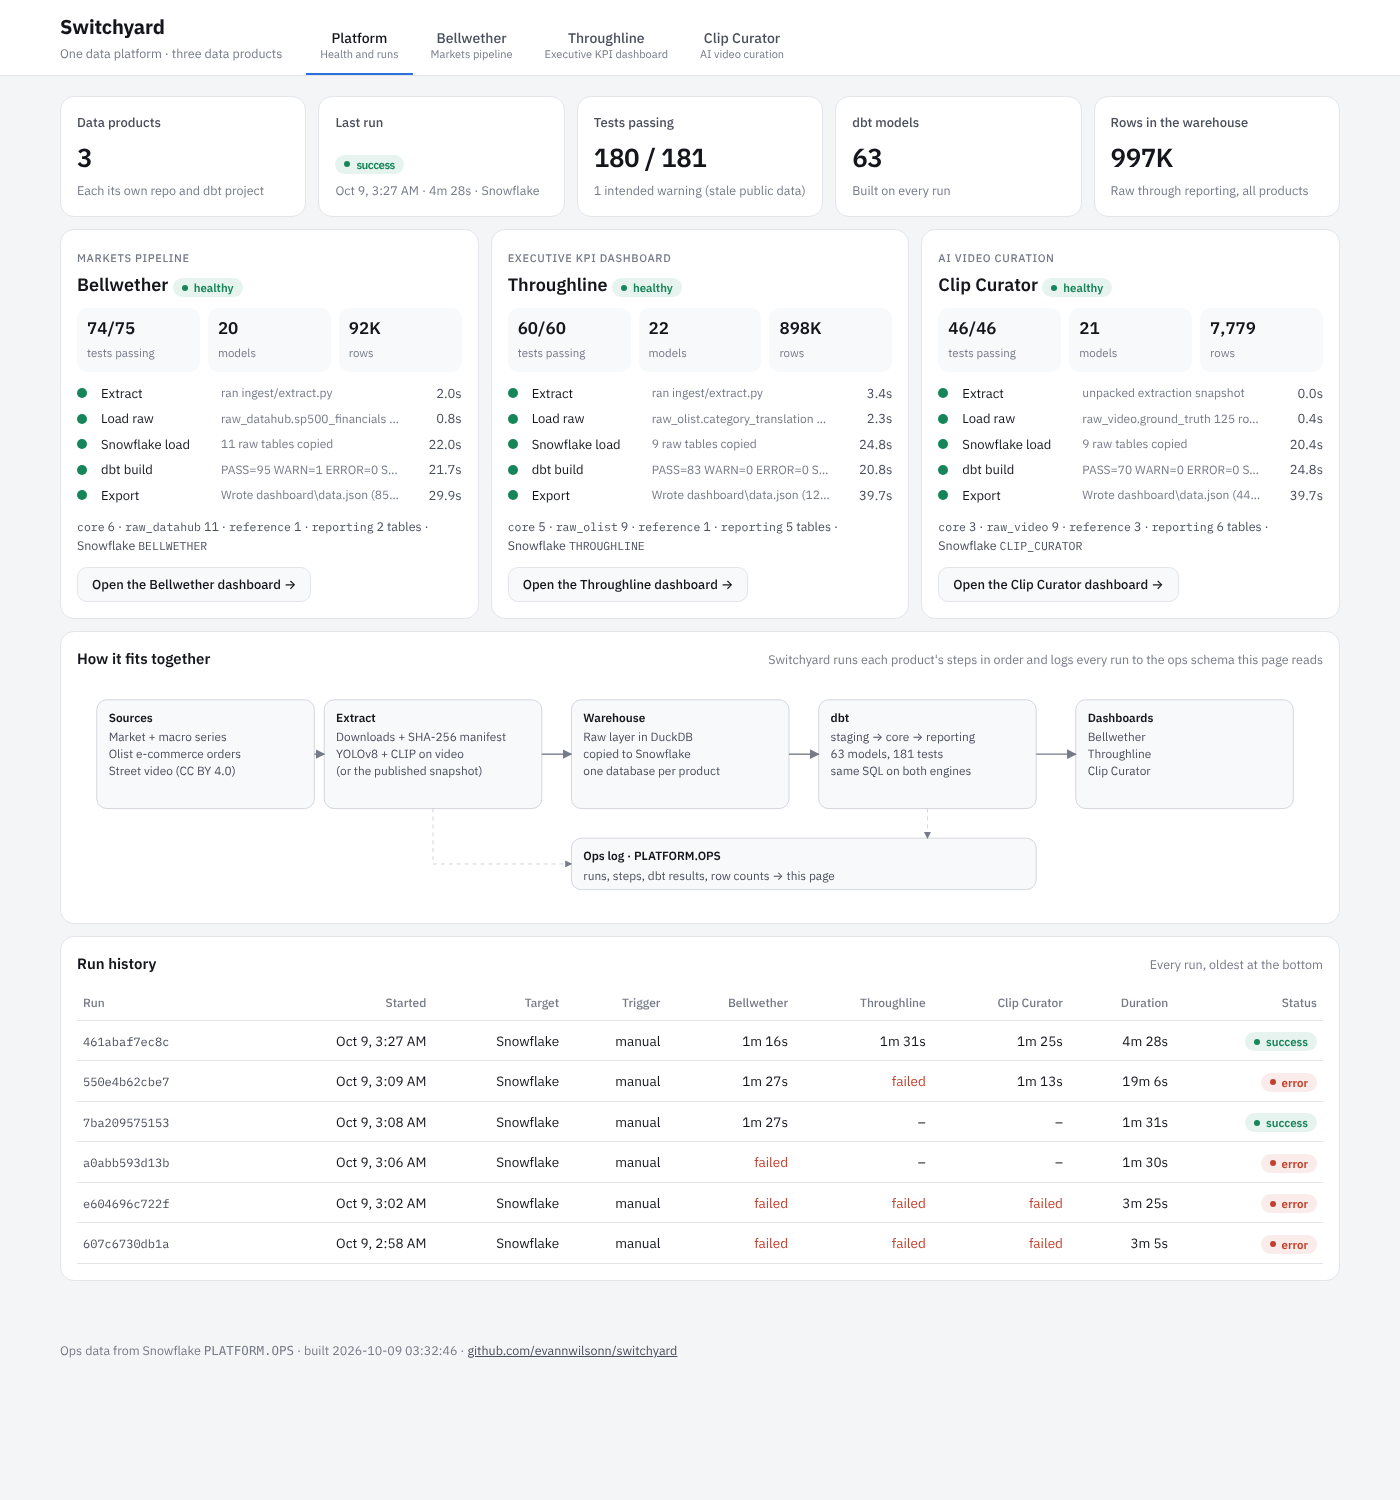
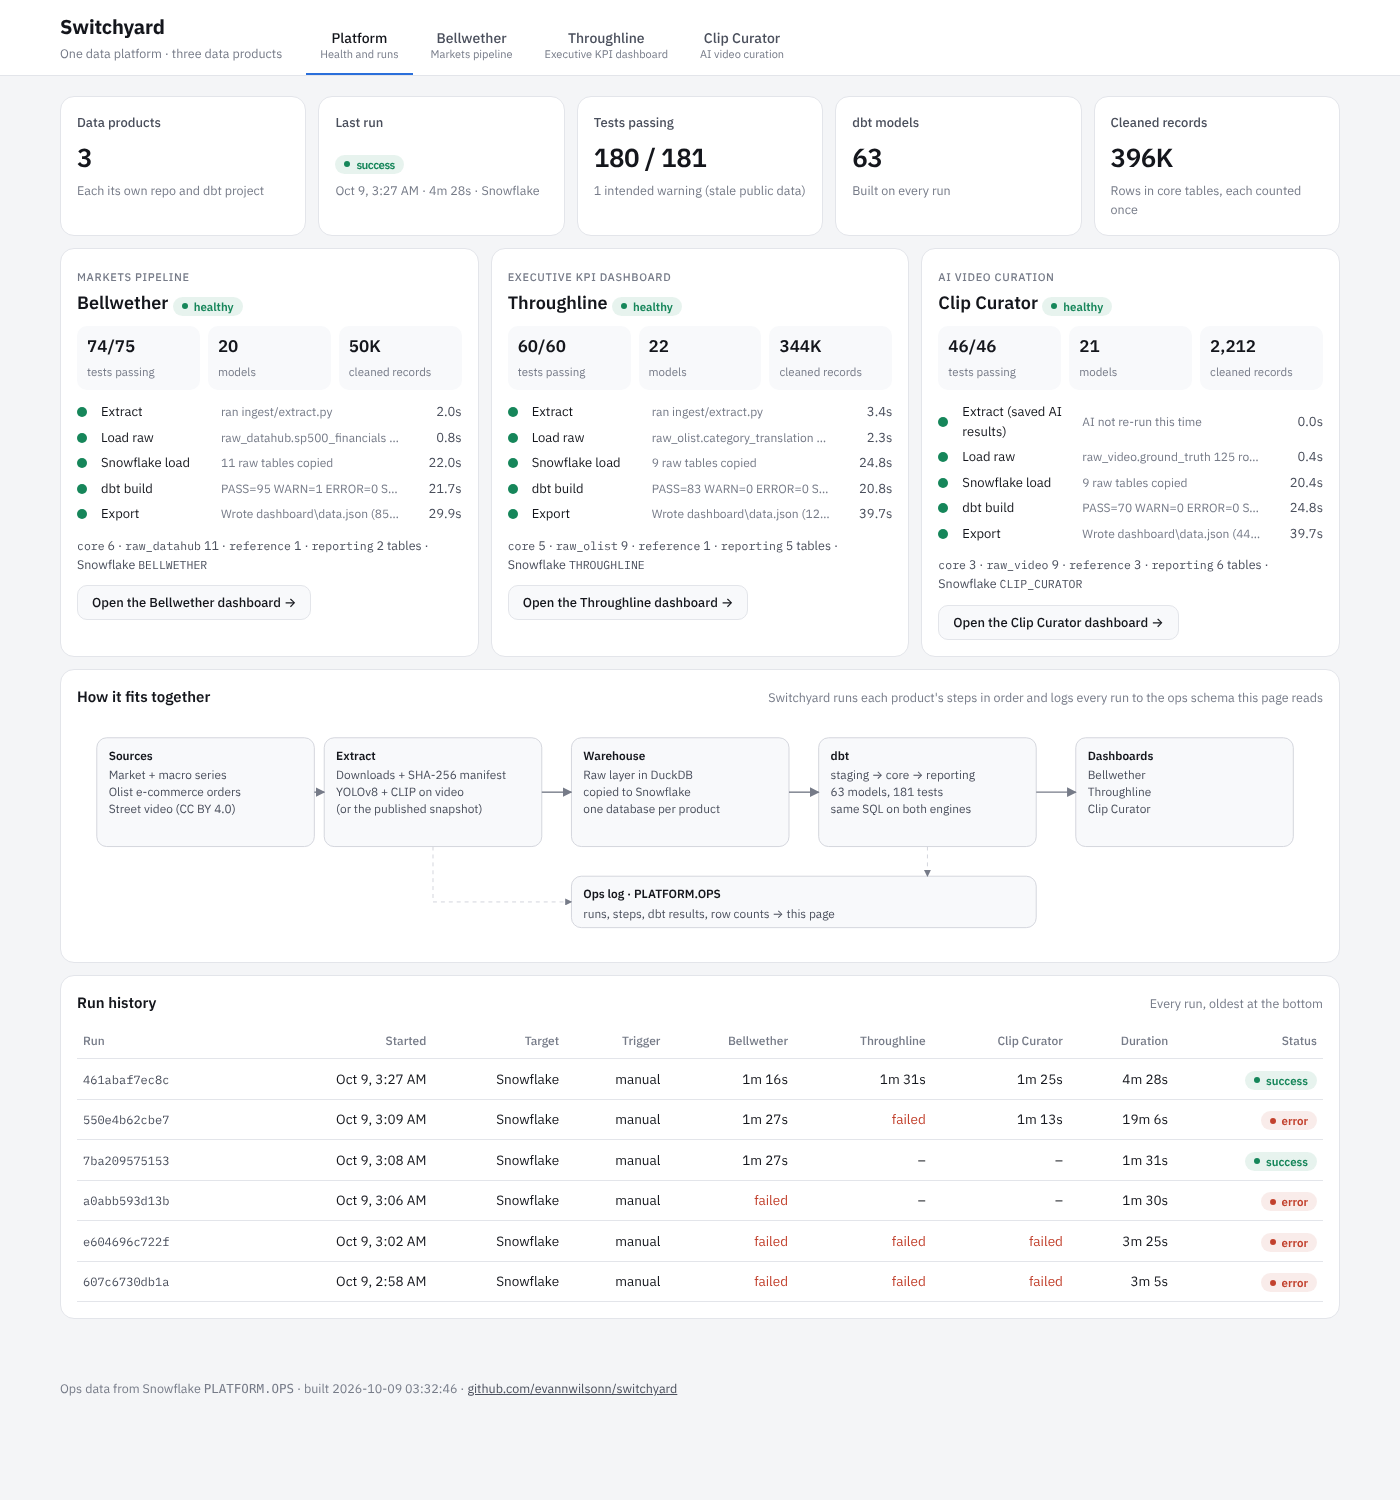
Platform view: count cleaned records once, label saved AI results
Claude-Session: https://claude.ai/code/session_0115tsXVS3SzXwHY6ufHKykD

diff --git a/app/index.html b/app/index.html
@@ -136,7 +136,9 @@ $('tabs').addEventListener('click',e=>{const b=e.target.closest('button');if(b)s
 const tests=prods.flatMap(p=>O.latest[p.name].dbt.filter(d=>d.resource_type==='test'));
 const testPass=tests.filter(d=>d.status==='pass').reduce((a,d)=>a+d.n,0), testAll=tests.reduce((a,d)=>a+d.n,0), testWarn=tests.filter(d=>d.status==='warn').reduce((a,d)=>a+d.n,0);
 const models=prods.flatMap(p=>O.latest[p.name].dbt.filter(d=>d.resource_type==='model')).reduce((a,d)=>a+d.n,0);
-const rowsAll=prods.flatMap(p=>O.latest[p.name].tables).reduce((a,t)=>a+(t.row_count||0),0);
+/* core = cleaned records, each counted once; raw and reporting tables hold copies or rollups of the same rows */
+const coreRows=L=>L.tables.filter(t=>t.schema_name==='core').reduce((a,t)=>a+(t.row_count||0),0);
+const rowsAll=prods.reduce((a,p)=>a+coreRows(O.latest[p.name]),0);
 const last=O.runs[0];
 const runSecs=last?(new Date(last.finished_at.replace(' ','T'))-new Date(last.started_at.replace(' ','T')))/1000:0;
 $('kpis').innerHTML=[
@@ -144,17 +146,17 @@ $('kpis').innerHTML=[
   ['Last run',last?`<span class="pill ${last.status}">${last.status}</span>`:'–',last?`${when(last.started_at)} · ${secs(runSecs)} · ${last.target==='snowflake'?'Snowflake':'DuckDB'}`:''],
   ['Tests passing',`${testPass} / ${testAll}`,testWarn?`${testWarn} intended warning${testWarn>1?'s':''} (stale public data)`:'Across every product'],
   ['dbt models',models,'Built on every run'],
-  ['Rows in the warehouse',fmtN(rowsAll),'Raw through reporting, all products'],
+  ['Cleaned records',fmtN(rowsAll),'Rows in core tables, each counted once'],
 ].map(([l,v,d])=>`<div class="kpi"><div class="lbl">${l}</div><div class="v">${v}</div><div class="d">${d}</div></div>`).join('');
 
 /* product cards */
 $('products').innerHTML=prods.map(p=>{
   const L=O.latest[p.name], t=L.dbt, sum=(rt,st)=>t.filter(d=>d.resource_type===rt&&(!st||d.status===st)).reduce((a,d)=>a+d.n,0);
-  const total=L.steps.reduce((a,s)=>a+s.seconds,0), rows=L.tables.reduce((a,x)=>a+(x.row_count||0),0);
+  const total=L.steps.reduce((a,s)=>a+s.seconds,0), rows=coreRows(L);
   const ok=L.steps.every(s=>s.status==='success');
   return `<article class="card prod"><span class="kind">${p.kind}</span><h3>${p.title} <span class="pill ${ok?'success':'error'}">${ok?'healthy':'failed'}</span></h3>
-    <div class="facts"><div><b>${sum('test','pass')}/${sum('test')}</b><span>tests passing</span></div><div><b>${sum('model')}</b><span>models</span></div><div><b>${fmtN(rows)}</b><span>rows</span></div></div>
-    <ul class="steps">${L.steps.map(s=>`<li><span class="dot ${s.status}"></span><span>${STEP_NAME[s.step]||s.step}</span><span class="det" title="${(s.detail||'').replace(/"/g,'&quot;')}">${(s.detail||'').split('\n').pop()}</span><span class="sec">${secs(s.seconds)}</span></li>`).join('')}</ul>
+    <div class="facts"><div><b>${sum('test','pass')}/${sum('test')}</b><span>tests passing</span></div><div><b>${sum('model')}</b><span>models</span></div><div><b>${fmtN(rows)}</b><span>cleaned records</span></div></div>
+    <ul class="steps">${L.steps.map(s=>`<li><span class="dot ${s.status}"></span><span>${s.step==='extract'&&/snapshot/.test(s.detail||'')?'Extract (saved AI results)':STEP_NAME[s.step]||s.step}</span><span class="det" title="${(s.detail||'').replace(/"/g,'&quot;')}">${/snapshot/.test(s.detail||'')?'AI not re-run this time':(s.detail||'').split('\n').pop()}</span><span class="sec">${secs(s.seconds)}</span></li>`).join('')}</ul>
     <p class="layers">${L.tables.map(x=>`<code>${x.schema_name}</code> ${x.tables}`).join(' · ')} tables${p.snowflake_database&&O.target==='snowflake'?` · Snowflake <code>${p.snowflake_database}</code>`:''}</p>
     <button class="open" type="button" data-open="${p.name}">Open the ${p.title} dashboard →</button></article>`}).join('');
 $('products').addEventListener('click',e=>{const b=e.target.closest('[data-open]');if(b)show(b.dataset.open)});

diff --git a/switchyard/run.py b/switchyard/run.py
@@ -67,7 +67,7 @@ def step_extract(p: dict, path: Path, args) -> str:
         (path / "data").mkdir(exist_ok=True)
         with tarfile.open(path / "snapshots" / "extracted.tar.gz") as t:
             t.extractall(path / "data", filter="data")
-        return "unpacked extraction snapshot"
+        return "loaded saved AI results from the published snapshot (YOLOv8 + CLIP not re-run; pass --full-ai to re-run)"
     for s in scripts:
         code, out = sh([PY, s], path)
         if code:

diff --git a/README.md b/README.md
@@ -16,7 +16,7 @@ Each product stays its own repo and dbt project. Switchyard doesn't copy their c
 
 For every project in `projects.yml`, `switchyard/run.py` runs five steps and stops that product at the first failure:
 
-1. **extract** – the product's own extract scripts (Clip Curator unpacks its published AI extraction snapshot unless `--full-ai` is passed, so a run doesn't need the models).
+1. **extract** – the product's own extract scripts. Clip Curator loads its saved AI results (the YOLOv8 + CLIP output published in its repo) unless `--full-ai` is passed, and the app labels that step "saved AI results" so a green check isn't mistaken for fresh video analysis.
 2. **load** – raw files into the product's local DuckDB landing zone.
 3. **warehouse_load** – raw tables copied into the product's Snowflake database (Parquet → stage → `COPY`, row counts checked against DuckDB).
 4. **transform** – `dbt build`, every model and test, on Snowflake or DuckDB.
@@ -28,11 +28,11 @@ Every run, step, dbt result and table row count goes to an ops schema: `PLATFORM
 
 Run `461abaf7ec8c`, Oct 9 2026, 4m 28s, all three products successful:
 
-| Product | dbt | Tests | Rows in warehouse |
+| Product | dbt | Tests | Cleaned records (core tables) |
 |---|---|---|---|
-| Bellwether | 20 models | 74 pass, 1 warn (stale public macro series, intended) | 92K |
-| Throughline | 22 models | 60 pass | 898K |
-| Clip Curator | 21 models | 46 pass | 7.8K |
+| Bellwether | 20 models | 74 pass, 1 warn (stale public macro series, intended) | 50K |
+| Throughline | 22 models | 60 pass | 344K |
+| Clip Curator | 21 models | 46 pass | 2.2K |
 
 The run history in the app keeps the failed runs from getting the Snowflake export working (timestamp precision and NUMBER types coming back through Parquet); those fixes are in `mirror.py`.
 
@@ -68,3 +68,7 @@ switchyard/mirror.py  Snowflake modeled layers → local DuckDB for export
 app/index.html        platform view shell
 app/build_app.py      builds app/build/ (static, every dashboard inlined)
 ```
+
+## Reading the platform view
+
+Everything on it comes from the ops log, not from the products' data. Step times and statuses are timed by the orchestrator; test and model counts come from dbt's `run_results.json`. "Cleaned records" counts rows in each product's core tables only, because raw and reporting tables hold copies or rollups of the same records. "Last run" is when Switchyard ran, not how fresh each source is; source staleness shows up as dbt warnings (Bellwether's one warning is a public macro series that stopped updating).
